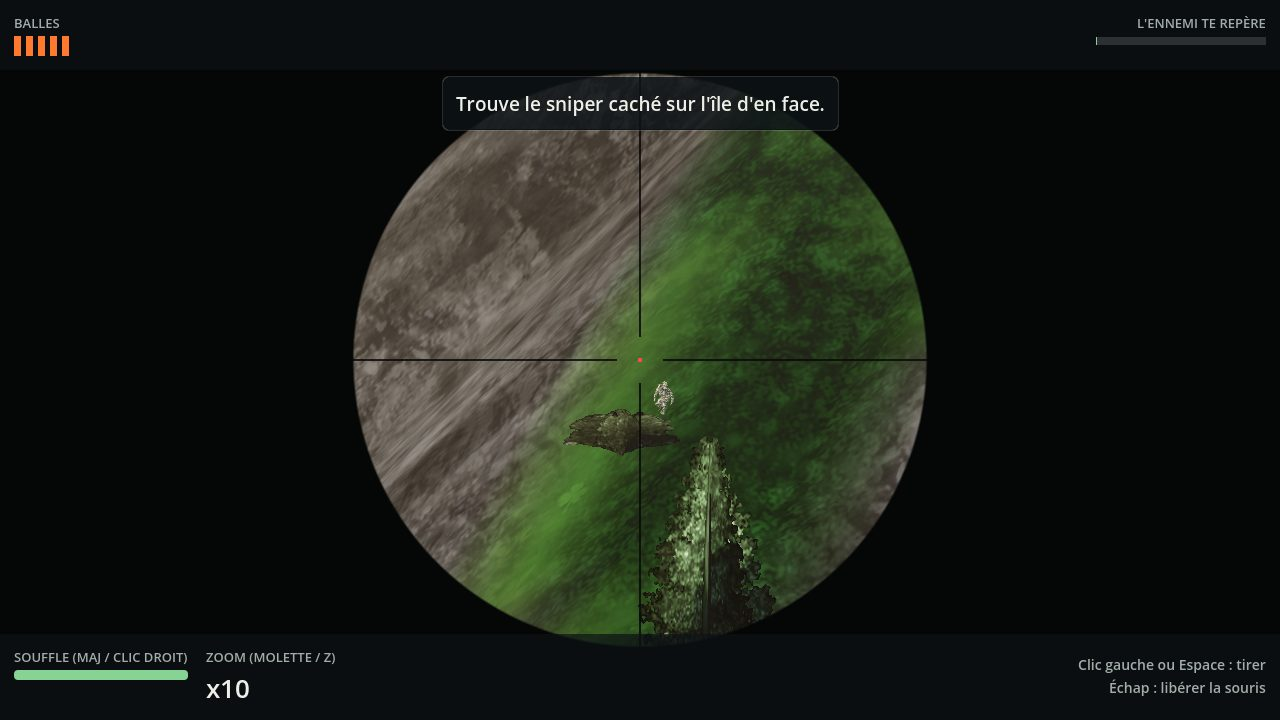
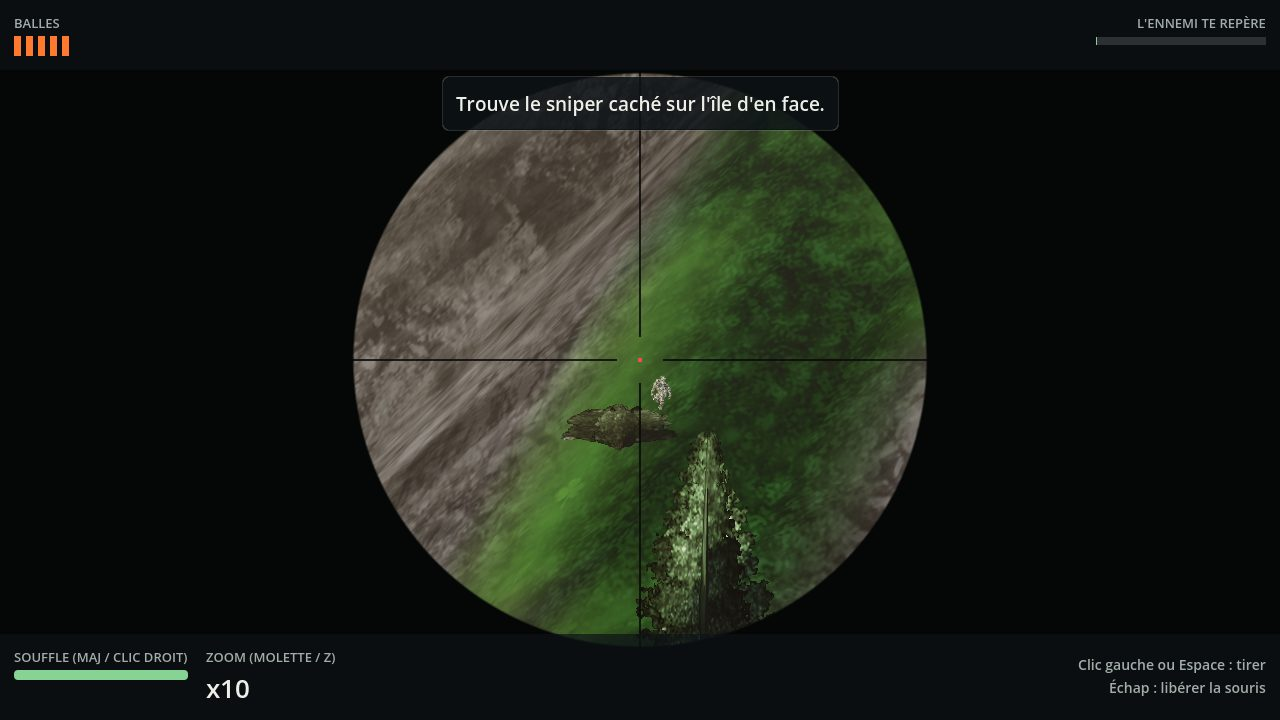
CameraRig, pas C : caméra de tir pilotée par le rig (aucun changement visible)
- camera_rig.gd : mode SCOPE (zoom x1/x4/x10, regard limité, balancement selon le souffle, recul) ;
  aim_origin / aim_direction = la caméra affichée
- main.gd : le tir lit rig.aim_origin / aim_direction (logique du tir, IA, détection inchangées) ;
  la jauge de souffle reste dans main.gd ; le reflet lit rig.zoom_level
- tests : 84 vérifications ; trace chiffrée (179 relevés) identique ; 15 captures identiques au pixel près

Claude-Session: https://claude.ai/code/session_013pbjtdffyqQrrwE9QtYc6X

diff --git a/tools/tests/navigateur.js b/tools/tests/navigateur.js
@@ -74,6 +74,24 @@ const out = process.argv[2], mode = process.argv[3] || 'souris';
     for (let k = 0; k < 4; k++) { await page.mouse.wheel(0, -120); await page.waitForTimeout(50); }
   }
   await shot('5_atelier_zoom');
+  if (!portrait) {
+    // Fin de l'atelier (TERMINÉ), révélation, puis tir : zoom (touche Z) et tir (Espace).
+    const [tx, ty] = orange(out + '/5_atelier_zoom.png');
+    console.log('TERMINE', tx, ty);
+    await tap(tx, ty);
+    // Rendu logiciel : le jeu tourne lentement ; on attend la fin du brouillard (le zoom n'agit qu'au tir).
+    await page.waitForTimeout(150000);
+    await shot('6_tir_x1');
+    await page.keyboard.press('z');
+    await page.waitForTimeout(10000);
+    await shot('7_tir_x4');
+    await page.keyboard.press('z');
+    await page.waitForTimeout(10000);
+    await shot('8_tir_x10');
+    await page.keyboard.press('Space');
+    await page.waitForTimeout(1000);
+    await shot('9_tir_recul');
+  }
   require('fs').writeFileSync(out + '/console.txt', logs.join('\n'));
   await browser.close();
 })();

diff --git a/tools/artefact/duel-des-cimes.html b/tools/artefact/duel-des-cimes.html
@@ -71,7 +71,7 @@ h1 span { color: var(--blaze); }
 </script>
 <script src="index.js"></script>
 <script>
-const GODOT_CONFIG = {"args":[],"canvasResizePolicy":2,"executable":"index","experimentalVK":false,"fileSizes":{"index.pck":10706624,"index.wasm":39514754},"focusCanvas":true,"gdextensionLibs":[]};
+const GODOT_CONFIG = {"args":[],"canvasResizePolicy":2,"executable":"index","experimentalVK":false,"fileSizes":{"index.pck":10707632,"index.wasm":39514754},"focusCanvas":true,"gdextensionLibs":[]};
 (function () {
   const loader = document.getElementById('loader');
   const bar = document.getElementById('progress');

diff --git a/docs/game-design.md b/docs/game-design.md
@@ -379,3 +379,15 @@ Le jeu devient une **appli mobile** (même jeu : cachette, peinture, duel), plus
   `rig.orbit_wheel()`, `rig.orbit_pinch()` ; `_workshop_center()` donne le point regardé.
 - Vérifié : trace chiffrée de la caméra image par image identique avant/après (`tools/tests/trace_camera.gd`),
   11 captures identiques au pixel près, 70 vérifications automatiques, version web dans Chromium.
+
+### CameraRig, pas C (30/10/2026)
+- Le rig pilote la **caméra de tir** (mode `SCOPE` : révélation, tir, fin) : position à l'œil, regard limité à ±1,1 rad
+  autour de l'axe de départ (plus fin quand on zoome), zoom x1/x4/x10 (`ZOOM_FOV`), balancement, recul.
+- Le **tir** lit `rig.aim_origin()` / `rig.aim_direction()` : exactement la caméra affichée, balancement et recul compris.
+  Sa logique (rayon, arbres traversés, temps de vol, dégâts) ne change pas.
+- La **jauge de souffle** reste dans `main.gd` (ressource de jeu) ; le rig reçoit seulement « souffle retenu / à bout
+  de souffle » (`rig.sway()`), avec la même formule de balancement. Le **reflet** lit `rig.zoom_level`.
+- Recul : `rig.recoil_kick()` (tir, 0,012 rad), `rig.recoil_flinch()` (balle ennemie tout près, −0,006), `rig.reset_recoil()`.
+- Reste en mode `EXTERNAL` : la cachette (pas D).
+- Vérifié : trace chiffrée (179 relevés : regard, butées, zoom, reflet après 5 s au x10, souffle retenu puis
+  essoufflement, recul, sursaut, fin) identique avant/après ; captures avant/après ; 84 vérifications automatiques.
